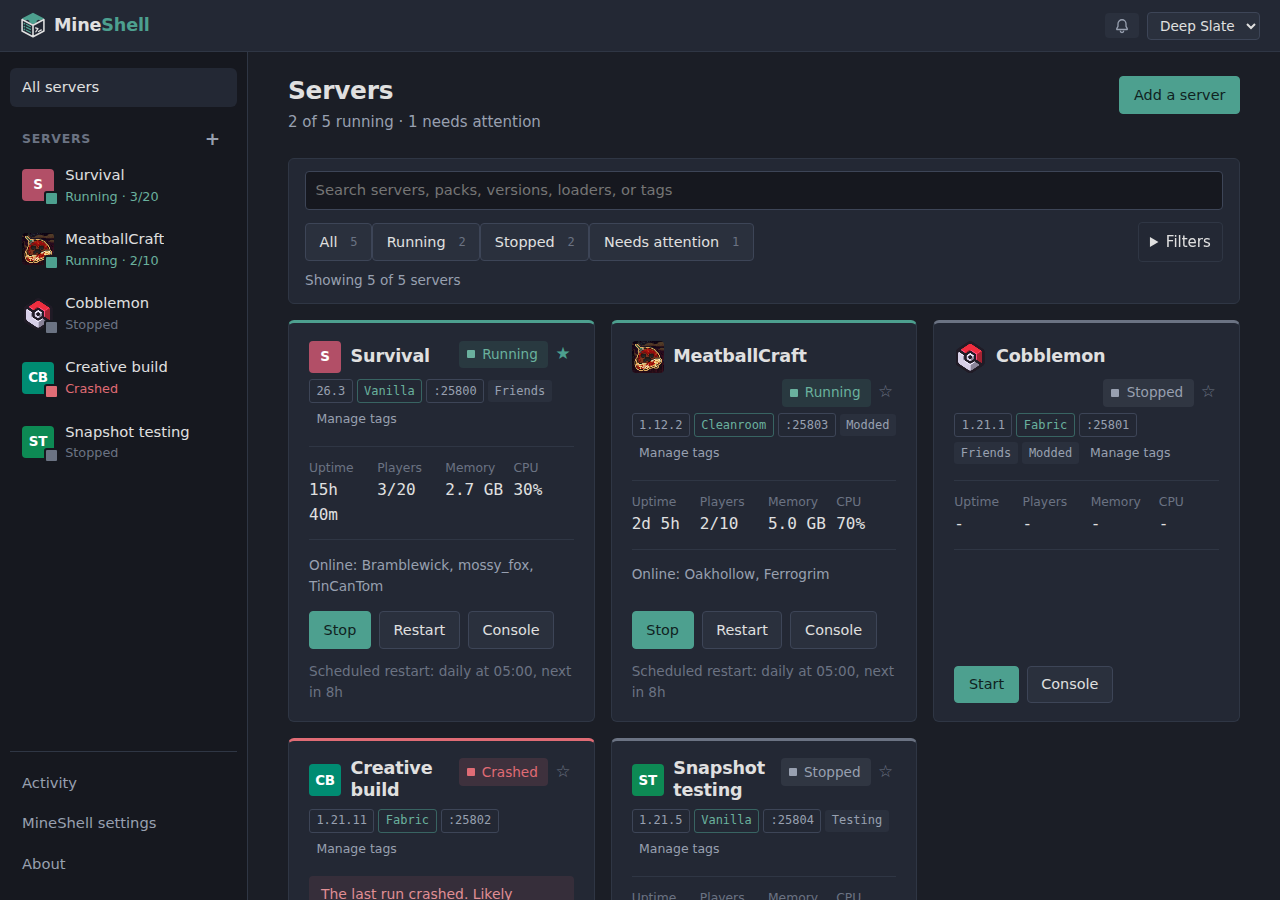
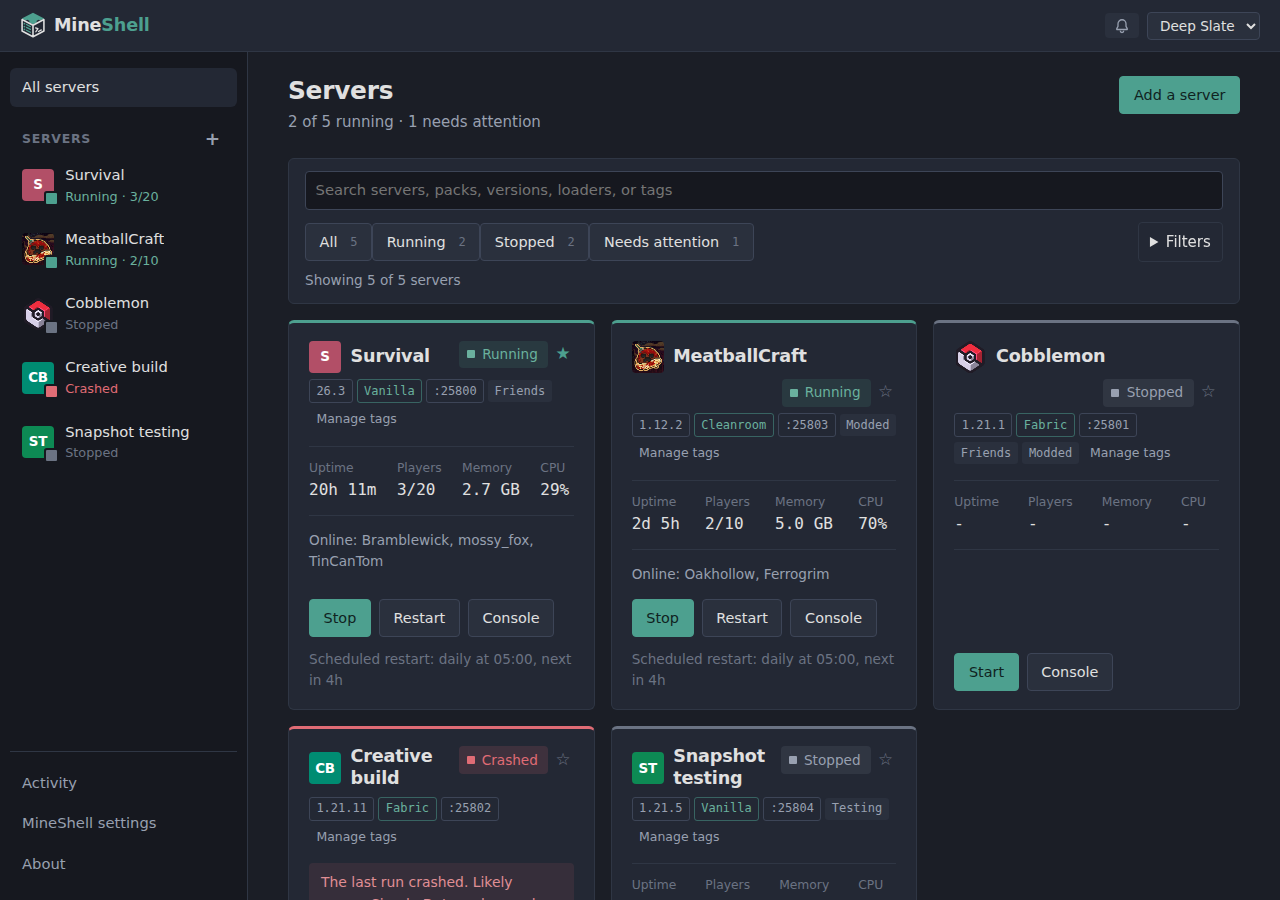
fix: long names no longer run out of their boxes or push pages sideways
A sweep of every page with the longest text MineShell takes or shows
(the long world) found a long unbroken name, the usual shape of a mod's,
file's or version's, running over its neighbours or past the edge:

- the page as a whole: words wider than their line now break
  (overflow-wrap: break-word on body, which changes no layout that fits)
- the server header: one line with an ellipsis, the name in its title,
  instead of pushing every server page sideways
- server cards: the name at most three lines; the numbers wrap instead
  of four equal columns (16 cores read 1600% CPU, which ran out of the
  card); a full server lists eight players and a count
- the crash notes and their fix button, Activity's task titles, the logs
  list on a phone, the online list's names, world and tag chips
- saved console commands end in an ellipsis with the command in the title
- Settings' port, snapshot and backup folder tables and the preset list
- the mods table: its box hid what did not fit, so a long version took
  the version, source and action columns out of view; boxed tables now
  scroll instead, and names, files and versions break
- the player page's name, and data values cut off without a title
- read-only notes scroll at their full 4000 characters, as the editor does

diff --git a/src/routes/+page.svelte b/src/routes/+page.svelte
@@ -14,6 +14,8 @@
 	/** What this account may do on a server; the server checks every action again. */
 	const may = (id: string, permission: InstancePermission) => can(data.access, id, permission);
 
+	/** Players named on a card before "and N more". */
+	const ONLINE_SHOWN = 8;
 	let busy = $state<string | null>(null);
 	let search = $state('');
 	let statusFilter = $state<'all' | 'running' | 'stopped' | 'attention'>('all');
@@ -253,7 +255,7 @@
 				<div class="card-head">
 					<div class="title">
 						<ServerIcon id={instance.id} name={instance.name} iconVersion={instance.iconVersion} size={32} />
-						<a href="/instances/{instance.id}"><h2>{instance.name}</h2></a>
+						<a href="/instances/{instance.id}" title={instance.name}><h2>{instance.name}</h2></a>
 					</div>
 					<div class="status">
 						<StatusPill active={instance.active} sub={instance.sub} phase={instance.phase} />
@@ -374,7 +376,11 @@
 				</dl>
 
 				{#if instance.players?.names.length}
-					<p class="small muted online">Online: {instance.players.names.join(', ')}</p>
+					{@const names = instance.players.names}
+					<!-- A full server would make this card the tallest in its row: the first few, then a count. -->
+					<p class="small muted online" title={names.length > ONLINE_SHOWN ? names.join(', ') : undefined}>
+						Online: {names.slice(0, ONLINE_SHOWN).join(', ')}{names.length > ONLINE_SHOWN ? ` and ${names.length - ONLINE_SHOWN} more` : ''}
+					</p>
 				{/if}
 
 				<footer>
@@ -587,10 +593,14 @@
 		min-width: 0;
 	}
 
+	/* Three lines at most beside the status: a long name ends in an ellipsis (the link's title holds all of it). */
 	.title h2 {
 		font-size: 1.1rem;
-		/* Only a word wider than the whole card breaks. */
-		overflow-wrap: break-word;
+		display: -webkit-box;
+		-webkit-box-orient: vertical;
+		-webkit-line-clamp: 3;
+		line-clamp: 3;
+		overflow: hidden;
 	}
 
 	.status {
@@ -621,10 +631,12 @@
 		flex-wrap: wrap;
 	}
 
+	/* Wrapping rather than four equal columns: 16 cores show as 1600% CPU, and an uptime of
+	   days or a large player limit is wider than a quarter of the card. */
 	.stats {
-		display: grid;
-		grid-template-columns: repeat(4, 1fr);
-		gap: var(--space-2);
+		display: flex;
+		flex-wrap: wrap;
+		gap: var(--space-2) var(--space-4);
 		margin: 0;
 		padding: var(--space-3) 0;
 		border-top: 1px solid var(--line);
@@ -636,9 +648,14 @@
 		color: var(--text-faint);
 	}
 
+	.stats > div {
+		flex: 1 0 auto;
+	}
+
 	.stats dd {
 		margin: 0;
 		font-size: 1rem;
+		white-space: nowrap;
 	}
 
 	.online {

diff --git a/src/routes/settings/+page.svelte b/src/routes/settings/+page.svelte
@@ -418,7 +418,7 @@
 			<tbody>
 				{#each data.snapshotUsage as row (row.id)}
 					<tr>
-						<td>
+						<td class="name">
 							<a href="/instances/{encodeURIComponent(row.id)}/world">{row.name}</a>
 							{#if row.ownSettings}<span class="tag">own settings</span>{/if}
 						</td>
@@ -458,7 +458,7 @@
 			<tbody>
 				{#each data.backupFolders as folder (folder.id)}
 					<tr>
-						<td>{folder.name}</td>
+						<td class="name">{folder.name}</td>
 						<td class="mono small">
 							<PathText path={folder.path} />
 							{#if folder.problem}
@@ -491,7 +491,7 @@
 							{/if}
 						</td>
 						<td class="mono small nowrap">{folder.freeBytes === null ? '-' : formatBytes(folder.freeBytes)}</td>
-						<td class="small">
+						<td class="small name">
 							{#each folder.servers as server, i (server.id)}{i ? ', ' : ''}<a href="/instances/{encodeURIComponent(server.id)}/settings?tab=snapshots">{server.name}</a>{:else}<span class="faint">none yet</span>{/each}
 						</td>
 						{#if data.owner}
@@ -572,7 +572,7 @@
 				{#each ports.rows as row (`${row.instanceId}:${row.kind}`)}
 					<tr class:problem={row.clashes.length || row.status === 'taken'}>
 						<td class="num mono">{row.port}<span class="faint">/{row.protocol}</span></td>
-						<td><a href="/instances/{encodeURIComponent(row.instanceId)}/settings?tab=network">{row.name}</a></td>
+						<td class="name"><a href="/instances/{encodeURIComponent(row.instanceId)}/settings?tab=network">{row.name}</a></td>
 						<td>
 							{PORT_KIND_LABELS[row.kind]}
 							{#if row.followsGame}<span class="faint small">(the game port's number)</span>{/if}
@@ -1378,6 +1378,11 @@
 		margin-top: var(--space-3);
 	}
 
+	/* A server's or folder's name can be one long word; a table column takes its width from its longest. */
+	td.name {
+		overflow-wrap: anywhere;
+	}
+
 	.ports tr.problem td {
 		background: color-mix(in srgb, var(--warning) 6%, transparent);
 	}
@@ -1616,10 +1621,12 @@
 	.saved-presets li > div {
 		display: grid;
 		gap: 0.15rem;
+		flex: 1 1 0;
 		min-width: 0;
 	}
 
-	.saved-presets code {
+	/* Names, descriptions and flags can be one long word: the column must not take its width from them. */
+	.saved-presets li > div > * {
 		overflow-wrap: anywhere;
 	}
 

diff --git a/src/lib/components/Console.svelte b/src/lib/components/Console.svelte
@@ -439,7 +439,7 @@
 				<span class="faint">Saved</span>
 				{#each macroList as macro (macro)}
 					<span class="macro">
-						<button type="button" class="button-quiet" onclick={() => useMacro(macro)} title="Put it in the command line">{macro}</button>
+						<button type="button" class="button-quiet" onclick={() => useMacro(macro)} title="Put it in the command line: {macro}">{macro}</button>
 						<button
 							type="button"
 							class="button-quiet remove"
@@ -727,10 +727,18 @@
 		font-size: 0.8rem;
 	}
 
+	/* A saved command can be 200 characters: the chip ends in an ellipsis, its title holds it all. */
 	.macro {
 		display: inline-flex;
+		max-width: min(24rem, 100%);
 		border: 1px solid var(--line-strong);
 		border-radius: var(--radius);
+	}
+
+	.macro button:first-child {
+		min-width: 0;
+		overflow: hidden;
+		text-overflow: ellipsis;
 	}
 
 	.macro button {
@@ -743,6 +751,7 @@
 	}
 
 	.macro .remove {
+		flex: none;
 		color: var(--text-faint);
 		border-left: 1px solid var(--line);
 	}

diff --git a/src/routes/instances/[id]/mods/+page.svelte b/src/routes/instances/[id]/mods/+page.svelte
@@ -359,7 +359,7 @@
 									</form>
 								{/if}
 							</td>
-							<td>
+							<td class="mod-cell">
 								<div class="mod-name">
 									{#if mod.projectUrl}
 										<a href={mod.projectUrl} target="_blank" rel="noreferrer">{mod.name}</a>
@@ -386,7 +386,7 @@
 									{mod.fileName}{mod.sizeBytes ? ` · ${formatBytes(mod.sizeBytes)}` : ''}
 								</div>
 							</td>
-							<td class="mono small nowrap">{mod.version ?? 'unknown'}</td>
+							<td class="mono small version">{mod.version ?? 'unknown'}</td>
 							<td class="small nowrap source">{sourceLabel(mod.source)}</td>
 							<td>
 								{#if pendingDelete === mod.fileName}
@@ -771,6 +771,16 @@
 
 	.source {
 		color: var(--text-muted);
+	}
+
+	/* Names, file names and versions can be long single words: they break so the table fits. */
+	.mod-cell,
+	.version {
+		overflow-wrap: anywhere;
+	}
+
+	.version {
+		min-width: 6rem;
 	}
 
 	tr.disabled td:not(.switch-col) {

diff --git a/src/routes/instances/[id]/+layout.svelte b/src/routes/instances/[id]/+layout.svelte
@@ -116,7 +116,7 @@
 		<div class="identity">
 			<div class="title">
 				<ServerIcon id={data.instance.id} name={data.instance.name} iconVersion={data.iconVersion} size={40} />
-				<h1>{data.instance.name}</h1>
+				<h1 title={data.instance.name}>{data.instance.name}</h1>
 				<StatusPill active={data.state.active} sub={data.state.sub} phase={data.phase} />
 			</div>
 			<div class="tags">
@@ -284,11 +284,23 @@
 		min-width: 0;
 	}
 
+	/* One line in the sticky head: a long name ends in an ellipsis (its title holds all of it)
+	   rather than pushing the status under it or the page sideways. */
 	.title {
 		display: flex;
 		align-items: center;
 		gap: 0.9rem;
-		flex-wrap: wrap;
+	}
+
+	.title h1 {
+		min-width: 0;
+		overflow: hidden;
+		text-overflow: ellipsis;
+		white-space: nowrap;
+	}
+
+	.title > :global(:not(h1)) {
+		flex: none;
 	}
 
 	.tags {

diff --git a/src/app.css b/src/app.css
@@ -149,6 +149,10 @@ body {
 	font-size: 15px;
 	line-height: 1.55;
 	-webkit-font-smoothing: antialiased;
+	/* A word wider than its line (a mod's or file's name, a path) breaks instead of running
+	   over what is beside it. Sizes stay as they were: a flex or grid item still takes its
+	   longest word as its narrowest, so one that holds such names also needs min-width: 0. */
+	overflow-wrap: break-word;
 }
 
 h1,
@@ -866,7 +870,8 @@ tbody tr:last-child td {
 	background: var(--panel);
 	border: 1px solid var(--line);
 	border-radius: var(--radius-lg);
-	overflow: hidden;
+	/* Clips to the corners; a table that still comes out wider scrolls rather than losing columns. */
+	overflow-x: auto;
 }
 
 .table-box th {

diff --git a/src/lib/components/NbtNode.svelte b/src/lib/components/NbtNode.svelte
@@ -151,7 +151,7 @@
 				</span>
 			</form>
 		{:else}
-			<span class="value mono" class:muted={container} class:hit={marked && !container && shown.toLowerCase().includes(term)}>{shown}</span>
+			<span class="value mono" class:muted={container} class:hit={marked && !container && shown.toLowerCase().includes(term)} title={container ? undefined : shown}>{shown}</span>
 			{#if fieldAction && (!container || (tag.type === 'list' && PLAIN.includes(tag.itemType)))}
 				<button type="button" class="button-quiet field-action" onclick={() => fieldAction.run(path, tag, name)}>{fieldAction.label}</button>
 			{/if}

diff --git a/src/routes/instances/[id]/+page.svelte b/src/routes/instances/[id]/+page.svelte
@@ -672,9 +672,12 @@
 		margin-top: var(--space-2);
 	}
 
+	/* Notes take 4000 characters: read-only, they scroll in their panel as the editor does. */
 	.notes-text {
 		white-space: pre-wrap;
 		margin: var(--space-2) 0 0;
+		max-height: 20rem;
+		overflow-y: auto;
 	}
 
 	.missing {
@@ -880,6 +883,7 @@
 
 	.online-name {
 		flex: 1;
+		min-width: 0;
 		font-size: 0.92rem;
 	}
 

diff --git a/src/lib/components/CrashDiagnosis.svelte b/src/lib/components/CrashDiagnosis.svelte
@@ -78,6 +78,14 @@
 		overflow-wrap: anywhere;
 	}
 
+	/* Its label names the mod ("Disable ..."), which can be one long word. */
+	.diagnosis button {
+		max-width: 100%;
+		white-space: normal;
+		overflow-wrap: anywhere;
+		text-align: left;
+	}
+
 	.other-errors {
 		margin-bottom: var(--space-3);
 		font-size: 0.88rem;

diff --git a/src/routes/instances/[id]/world/+page.svelte b/src/routes/instances/[id]/world/+page.svelte
@@ -1299,6 +1299,11 @@
 		color: var(--text-muted);
 		font-size: 0.85rem;
 		font-weight: 400;
+		/* A world's name or a tag can be one long word: it wraps inside the chip on a phone. */
+		max-width: 100%;
+		white-space: normal;
+		overflow-wrap: anywhere;
+		text-align: left;
 	}
 
 	.chip[aria-pressed='true'] {

diff --git a/src/routes/tasks/+page.svelte b/src/routes/tasks/+page.svelte
@@ -171,6 +171,12 @@
 		align-items: flex-start;
 	}
 
+	/* A task named after a server or file with a long unbroken name wraps inside the panel. */
+	.head > .row:first-child,
+	.head > .row:first-child > div {
+		min-width: 0;
+	}
+
 	.head h2 {
 		font-size: 1rem;
 	}

diff --git a/src/routes/instances/[id]/players/[uuid]/+page.svelte b/src/routes/instances/[id]/players/[uuid]/+page.svelte
@@ -1069,6 +1069,11 @@
 		gap: 0.7rem;
 	}
 
+	/* Sixteen W's beside the face are wider than a phone's column. */
+	.who-name h2 {
+		min-width: 0;
+	}
+
 	.who p {
 		margin: 0.15rem 0 0;
 	}
